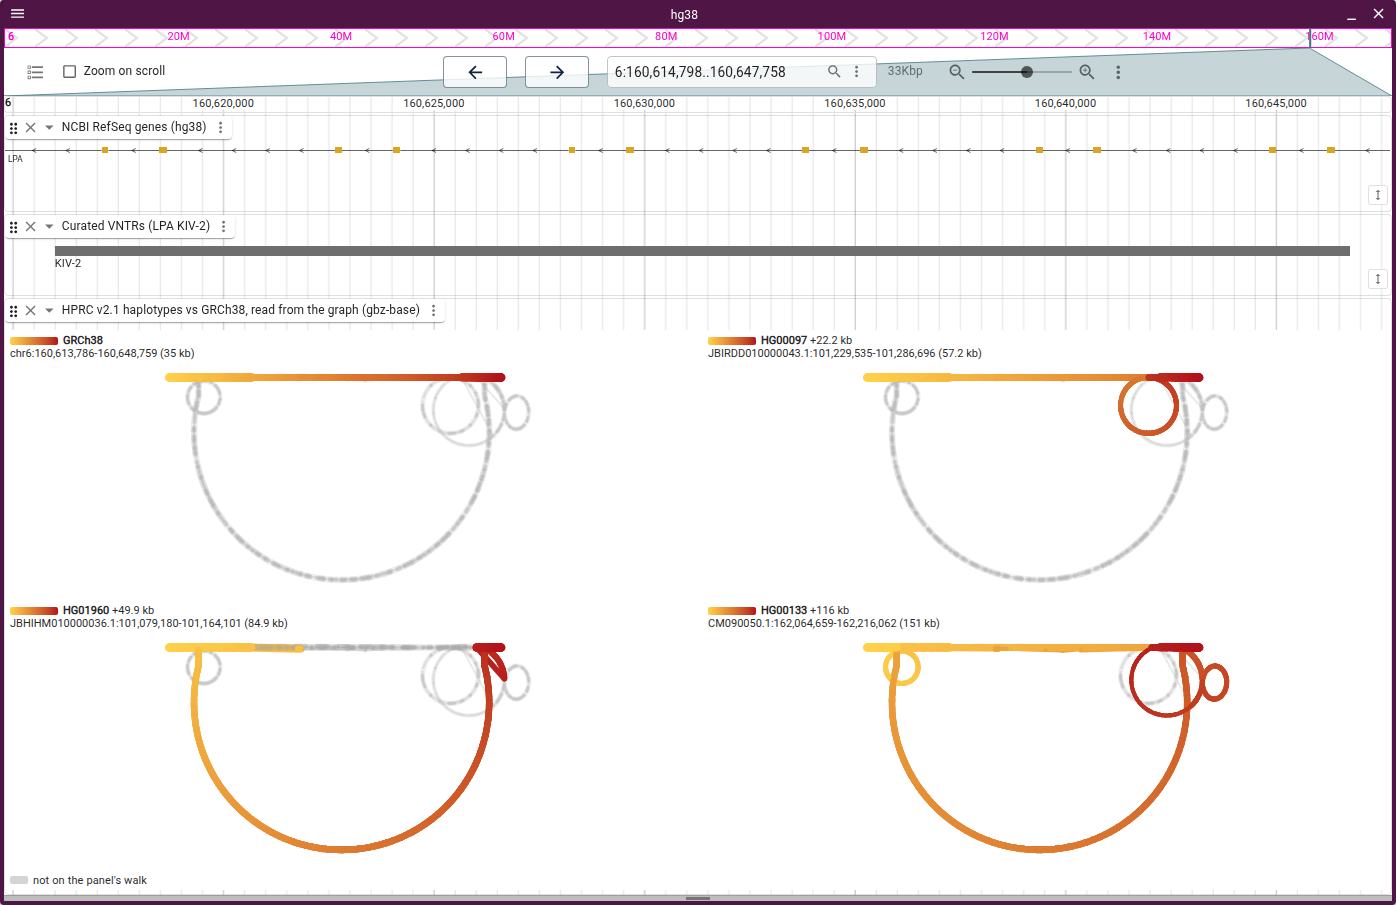
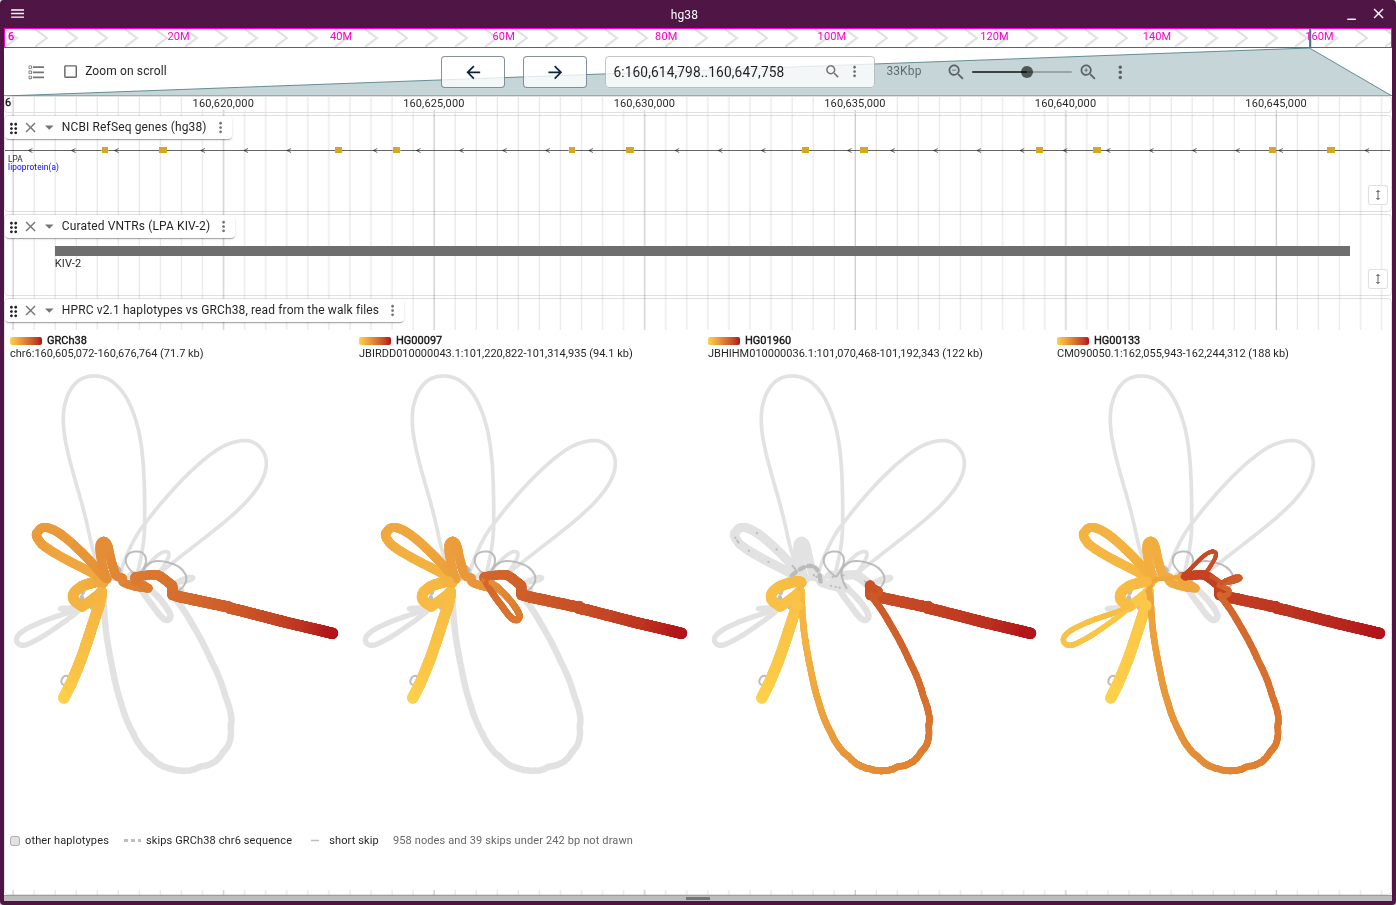
The MHC class II figure is drawn force-directed with FMMM, the default engine, and renamed mhc_force, and the KIV-2 panel screenshot from JBrowse is reshot on graph plugin 10.0.6: the old one read a gbz track the HPRC config no longer has

diff --git a/README.md b/README.md
@@ -79,7 +79,7 @@ database (`.gbz.db`) the same way.
 <td><a href="docs/gallery.md"><img src="img/cfh_force.png" width="260" alt="CFH with genes and a deletion"></a><br>CFH with genes and a deletion</td>
 </tr>
 <tr>
-<td><a href="docs/gallery.md"><img src="img/mhc_stress.png" width="260" alt="MHC class II, stress layout"></a><br>MHC class II, stress layout</td>
+<td><a href="docs/gallery.md"><img src="img/mhc_force.png" width="260" alt="MHC class II with the DRB genes"></a><br>MHC class II with the DRB genes</td>
 <td><a href="docs/gallery.md"><img src="img/ecoli_genes.png" width="260" alt="E. coli with K-12 genes"></a><br>E. coli with K-12 genes</td>
 <td><a href="docs/gallery.md"><img src="img/assembly_graph.png" width="260" alt="A de novo assembly graph"></a><br>A de novo assembly graph</td>
 </tr>

diff --git a/docs/gallery.md b/docs/gallery.md
@@ -31,11 +31,11 @@ and "partial walk" a walk that leaves the cut region:
 
 ![The amylase locus in four HPRC samples, as walk rows with their genes](../img/amy1_rows.png)
 
-The stress layout draws HLA-DRB5, DRB6 and DRB1 from a slice of an HPRC rGFA.
-The long dashed edge skips a stretch of GRCh38, and the large loop is sequence
-that GRCh38 lacks:
+A slice of an HPRC rGFA draws HLA-DRB5, DRB6 and DRB1 force-directed. The dashed
+edge skips a stretch of GRCh38, and the large loop is sequence that GRCh38
+lacks:
 
-![The MHC class II DRB region, stress layout](../img/mhc_stress.png)
+![The MHC class II DRB region, force-directed](../img/mhc_force.png)
 
 A slice of an E. coli minigraph is anchored on K-12 and labelled with K-12's
 genes:
